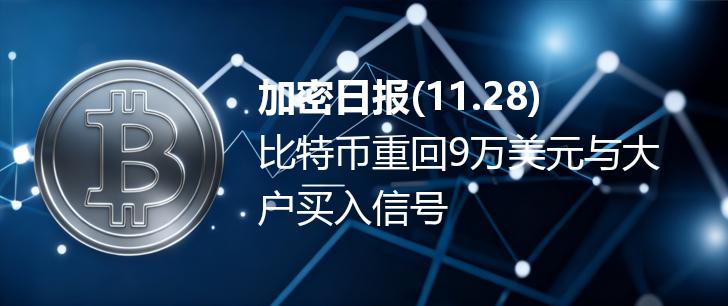
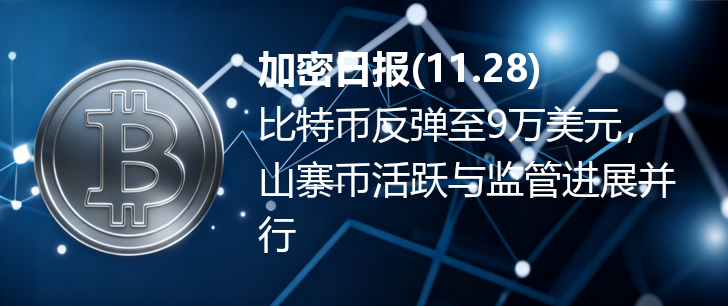
daily_news

Changed region(s): [[0.3324, 0.1471, 0.9368, 0.8235]]

diff --git a/files/latest_summary.md b/files/latest_summary.md
@@ -1,33 +1,25 @@
-### 一、主流币及山寨币行情分析与短期策略  
-**总结**：  
-1. 分析比特币、以太坊等主流币短期支撑与压力位，指出需关注关键位置（如BTC的90520美元、ETH的3030美元）及回调风险，若跌破支撑位可能开启短期回调。  
-2. 对山寨币（如MERL、WOJAK）的行情进行具体分析，MERL经46天高控震荡后瀑布下跌，WOJAK市值持续增长，同时提及Pump Fun等项目的资金动向及市场策略（如低多为主、不追高）。  
-
-**参考**：  
-- [11月27日：比特币、以太坊行情分析](https://blockweeks.com/hq/189279)  
-- [11月27今日行情分析：大反弹来了？还会不会再跌新低？比特币、以太坊、山寨币、链上土狗策略！](https://blockweeks.com/hq/189304)  
-
-
-### 二、比特币价格动态及市场情绪分析  
-**总结**：  
-1. 感恩节前比特币价格突破9万美元，自上周恐慌低点80,000美元回升约12%，但过去一周仍下跌3%，较历史高点回落28%。  
-2. 分析感恩节周市场交易量低导致波动率降低，期权市场显示交易员预期比特币在85,000-90,000美元区间窄幅波动，市场情绪偏向淡化双边走势，缺乏明确突破方向。  
-
-**参考**：  
-- [比特币在典型的感恩节前价格走势中重新突破9万美元](https://news.futunn.com/post/65467984/bitcoin-retakes-90k-in-break-from-typical-pre-thanksgiving-price)  
+### 一、比特币价格走势与市场动态
+**总结**：
+1. 比特币近期经历超跌反弹，价格在9万美元附近波动，技术面显示抛压减少，MACD即将金叉，短期存在继续上涨空间，但尚未构成大级别反转，需关注回调支撑位。
+2. 感恩节前市场流动性较低，比特币价格在美东下午时段突破9万美元，过去一周整体仍呈下跌趋势，机构和大户行为（如八月以来首次回归买入）对市场情绪有一定影响。
+3. 市场存在“干瘪的牛市”特征，机构资本集中于龙头资产，散户流动性被榨干，山寨币市场呈现高控盘、资金博弈等现象。
+**参考**：
+- [11月27日：比特币、以太坊行情分析](https://blockweeks.com/hq/189279)
+- [比特币在典型的感恩节前价格走势中重新突破9万美元](https://www.futunn.com/post/65467984)
+- [比特币大户自八月以来首次回归买入，价格回升至九万美元以上](https://www.coindesk.com/zh/markets/2025/11/27/bitcoin-whales-return-to-buying-for-the-first-time-since-august-as-price-recovers-above-usd90k)
 
 
-### 三、比特币市场资金流向及大户行为分析  
-**总结**：  
-1. 比特币大户自八月以来首次回归买入行为，推动价格回升至九万美元以上，可能缓解市场抛压，对短期价格形成支撑。  
+### 二、山寨币及市场热点分析
+**总结**：
+1. 主流山寨币如BNB、SOL等同步跟随比特币反弹，存在明确支撑位与压力位，需关注关键区间突破情况。
+2. 新币、次新币及Meme币表现活跃，如WOJAK市值持续上涨，MERL经历高控震仓后开启瀑布下跌，BIBI、TOWN等币出现短期暴涨后进入调整。
+3. L2四大天王（STRK、ZK、OP、ARB）中部分币种已从底部反弹，12月以太坊升级或带动以太系山寨币情绪。
+**参考**：
+- [11月27今日行情分析：大反弹来了？还会不会再跌新低？比特币、以太坊、山寨币、链上土狗策略！](https://blockweeks.com/hq/189304)
 
-**参考**：  
-- [比特币大户自八月以来首次回归买入，价格回升至九万美元以上](https://www.coindesk.com/zh/markets/2025/11/27/bitcoin-whales-return-to-buying-for-the-first-time-since-august-as-price-recovers-above-usd90k)  
 
-
-### 四、加密行业监管与企业动态  
-**总结**：  
-1. 荷兰比特币初创公司Blockrise获荷兰金融监管机构授权，可继续提供金融服务并扩展至欧洲市场，反映加密行业在欧洲的监管合规进展及企业扩张动态。  
-
-**参考**：  
+### 三、加密监管与行业动态
+**总结**：
+1. 荷兰比特币初创公司Blockrise获得官方授权，可在荷兰继续提供金融服务，并扩展至整个欧洲，标志着其监管合规性提升及业务扩张进展。
+**参考**：
 - [荷兰比特币初创公司Blockrise 获准在荷兰继续提供金融服务并扩展至欧洲](https://www.odaily.news/zh-CN/newsflash/458555)

diff --git a/files/latest_summary_cleaned.md b/files/latest_summary_cleaned.md
@@ -1,13 +1,10 @@
-### 一、主流币及山寨币行情分析与短期策略  
-1. 分析比特币、以太坊等主流币短期支撑与压力位，指出需关注关键位置（如BTC的90520美元、ETH的3030美元）及回调风险，若跌破支撑位可能开启短期回调。  
-2. 对山寨币（如MERL、WOJAK）的行情进行具体分析，MERL经46天高控震荡后瀑布下跌，WOJAK市值持续增长，同时提及Pump Fun等项目的资金动向及市场策略（如低多为主、不追高）。  
-
-### 二、比特币价格动态及市场情绪分析  
-1. 感恩节前比特币价格突破9万美元，自上周恐慌低点80,000美元回升约12%，但过去一周仍下跌3%，较历史高点回落28%。  
-2. 分析感恩节周市场交易量低导致波动率降低，期权市场显示交易员预期比特币在85,000-90,000美元区间窄幅波动，市场情绪偏向淡化双边走势，缺乏明确突破方向。  
-
-### 三、比特币市场资金流向及大户行为分析  
-1. 比特币大户自八月以来首次回归买入行为，推动价格回升至九万美元以上，可能缓解市场抛压，对短期价格形成支撑。  
-
-### 四、加密行业监管与企业动态  
-1. 荷兰比特币初创公司Blockrise获荷兰金融监管机构授权，可继续提供金融服务并扩展至欧洲市场，反映加密行业在欧洲的监管合规进展及企业扩张动态。  
+### 一、比特币价格走势与市场动态
+1. 比特币近期经历超跌反弹，价格在9万美元附近波动，技术面显示抛压减少，MACD即将金叉，短期存在继续上涨空间，但尚未构成大级别反转，需关注回调支撑位。
+2. 感恩节前市场流动性较低，比特币价格在美东下午时段突破9万美元，过去一周整体仍呈下跌趋势，机构和大户行为（如八月以来首次回归买入）对市场情绪有一定影响。
+3. 市场存在“干瘪的牛市”特征，机构资本集中于龙头资产，散户流动性被榨干，山寨币市场呈现高控盘、资金博弈等现象。
+### 二、山寨币及市场热点分析
+1. 主流山寨币如BNB、SOL等同步跟随比特币反弹，存在明确支撑位与压力位，需关注关键区间突破情况。
+2. 新币、次新币及Meme币表现活跃，如WOJAK市值持续上涨，MERL经历高控震仓后开启瀑布下跌，BIBI、TOWN等币出现短期暴涨后进入调整。
+3. L2四大天王（STRK、ZK、OP、ARB）中部分币种已从底部反弹，12月以太坊升级或带动以太系山寨币情绪。
+### 三、加密监管与行业动态
+1. 荷兰比特币初创公司Blockrise获得官方授权，可在荷兰继续提供金融服务，并扩展至整个欧洲，标志着其监管合规性提升及业务扩张进展。
